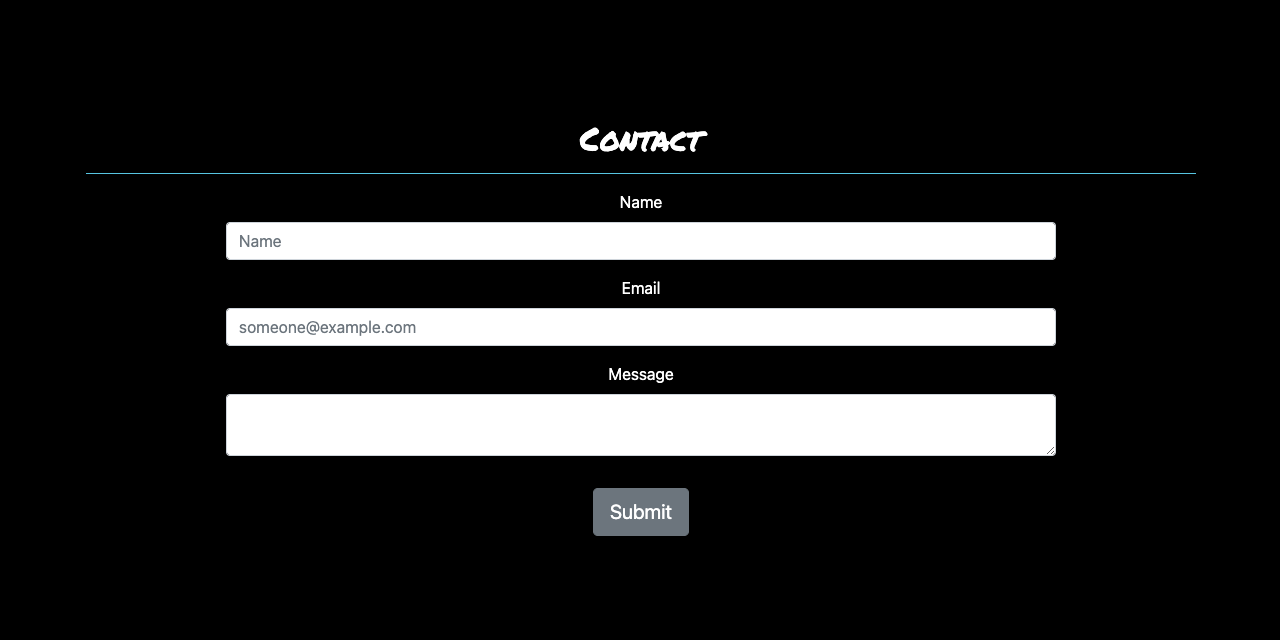
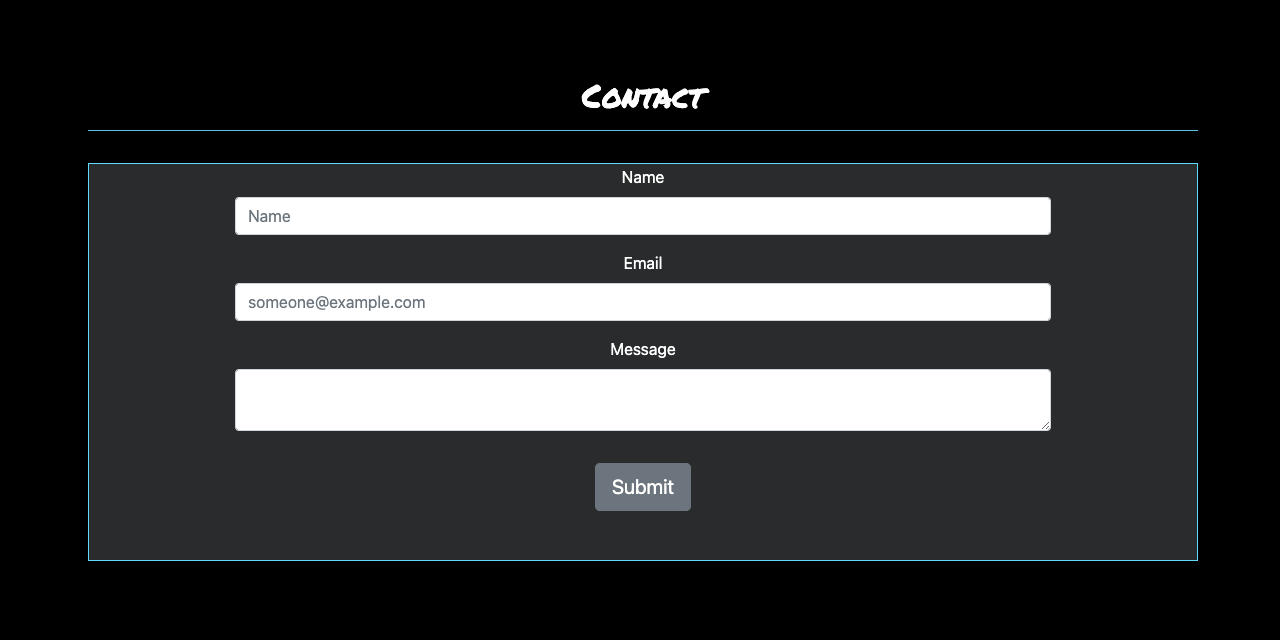
Updates

diff --git a/index.html b/index.html
@@ -1,1 +1,1 @@
-<!doctype html><html lang="en"><head><meta charset="utf-8"/><link rel="icon" href="/react-contact-form/favicon.ico"/><meta name="viewport" content="width=device-width,initial-scale=1"/><meta name="theme-color" content="#000000"/><meta property="og:title" content="React Contact Form"/><meta property="og:description" content="Made with ♥ by Michael Huber"/><meta property="og:image" content="/react-contact-form/form.png"/><meta property="og:url" content="https://mshuber1981.github.io/react-contact-form"/><meta name="twitter:card" content="summary_large_image"/><meta property="og:site_name" content="github.com/mshuber1981"/><link rel="apple-touch-icon" href="/react-contact-form/logo192.png"/><link rel="manifest" href="/react-contact-form/manifest.json"/><title>React Contact Form</title><link href="/react-contact-form/static/css/2.20aa2d7b.chunk.css" rel="stylesheet"><link href="/react-contact-form/static/css/main.547e861b.chunk.css" rel="stylesheet"></head><body><noscript>You need to enable JavaScript to run this app.</noscript><div id="root"></div><script>!function(e){function t(t){for(var n,c,a=t[0],f=t[1],l=t[2],p=0,s=[];p<a.length;p++)c=a[p],Object.prototype.hasOwnProperty.call(o,c)&&o[c]&&s.push(o[c][0]),o[c]=0;for(n in f)Object.prototype.hasOwnProperty.call(f,n)&&(e[n]=f[n]);for(i&&i(t);s.length;)s.shift()();return u.push.apply(u,l||[]),r()}function r(){for(var e,t=0;t<u.length;t++){for(var r=u[t],n=!0,a=1;a<r.length;a++){var f=r[a];0!==o[f]&&(n=!1)}n&&(u.splice(t--,1),e=c(c.s=r[0]))}return e}var n={},o={1:0},u=[];function c(t){if(n[t])return n[t].exports;var r=n[t]={i:t,l:!1,exports:{}};return e[t].call(r.exports,r,r.exports,c),r.l=!0,r.exports}c.m=e,c.c=n,c.d=function(e,t,r){c.o(e,t)||Object.defineProperty(e,t,{enumerable:!0,get:r})},c.r=function(e){"undefined"!=typeof Symbol&&Symbol.toStringTag&&Object.defineProperty(e,Symbol.toStringTag,{value:"Module"}),Object.defineProperty(e,"__esModule",{value:!0})},c.t=function(e,t){if(1&t&&(e=c(e)),8&t)return e;if(4&t&&"object"==typeof e&&e&&e.__esModule)return e;var r=Object.create(null);if(c.r(r),Object.defineProperty(r,"default",{enumerable:!0,value:e}),2&t&&"string"!=typeof e)for(var n in e)c.d(r,n,function(t){return e[t]}.bind(null,n));return r},c.n=function(e){var t=e&&e.__esModule?function(){return e.default}:function(){return e};return c.d(t,"a",t),t},c.o=function(e,t){return Object.prototype.hasOwnProperty.call(e,t)},c.p="/react-contact-form/";var a=this["webpackJsonpreact-contact-form"]=this["webpackJsonpreact-contact-form"]||[],f=a.push.bind(a);a.push=t,a=a.slice();for(var l=0;l<a.length;l++)t(a[l]);var i=f;r()}([])</script><script src="/react-contact-form/static/js/2.9c588dc6.chunk.js"></script><script src="/react-contact-form/static/js/main.a4c6bd37.chunk.js"></script></body></html>
+<!doctype html><html lang="en"><head><meta charset="utf-8"/><link rel="icon" href="/react-contact-form/favicon.ico"/><meta name="viewport" content="width=device-width,initial-scale=1"/><meta name="theme-color" content="#000000"/><meta property="og:title" content="React Contact Form"/><meta property="og:description" content="Made with ♥ by Michael Huber"/><meta property="og:image" content="/react-contact-form/form.png"/><meta property="og:url" content="https://mshuber1981.github.io/react-contact-form"/><meta name="twitter:card" content="summary_large_image"/><meta property="og:site_name" content="github.com/mshuber1981"/><link rel="apple-touch-icon" href="/react-contact-form/logo192.png"/><link rel="manifest" href="/react-contact-form/manifest.json"/><title>React Contact Form</title><link href="/react-contact-form/static/css/2.20aa2d7b.chunk.css" rel="stylesheet"><link href="/react-contact-form/static/css/main.78424440.chunk.css" rel="stylesheet"></head><body><noscript>You need to enable JavaScript to run this app.</noscript><div id="root"></div><script>!function(e){function t(t){for(var n,c,a=t[0],f=t[1],l=t[2],p=0,s=[];p<a.length;p++)c=a[p],Object.prototype.hasOwnProperty.call(o,c)&&o[c]&&s.push(o[c][0]),o[c]=0;for(n in f)Object.prototype.hasOwnProperty.call(f,n)&&(e[n]=f[n]);for(i&&i(t);s.length;)s.shift()();return u.push.apply(u,l||[]),r()}function r(){for(var e,t=0;t<u.length;t++){for(var r=u[t],n=!0,a=1;a<r.length;a++){var f=r[a];0!==o[f]&&(n=!1)}n&&(u.splice(t--,1),e=c(c.s=r[0]))}return e}var n={},o={1:0},u=[];function c(t){if(n[t])return n[t].exports;var r=n[t]={i:t,l:!1,exports:{}};return e[t].call(r.exports,r,r.exports,c),r.l=!0,r.exports}c.m=e,c.c=n,c.d=function(e,t,r){c.o(e,t)||Object.defineProperty(e,t,{enumerable:!0,get:r})},c.r=function(e){"undefined"!=typeof Symbol&&Symbol.toStringTag&&Object.defineProperty(e,Symbol.toStringTag,{value:"Module"}),Object.defineProperty(e,"__esModule",{value:!0})},c.t=function(e,t){if(1&t&&(e=c(e)),8&t)return e;if(4&t&&"object"==typeof e&&e&&e.__esModule)return e;var r=Object.create(null);if(c.r(r),Object.defineProperty(r,"default",{enumerable:!0,value:e}),2&t&&"string"!=typeof e)for(var n in e)c.d(r,n,function(t){return e[t]}.bind(null,n));return r},c.n=function(e){var t=e&&e.__esModule?function(){return e.default}:function(){return e};return c.d(t,"a",t),t},c.o=function(e,t){return Object.prototype.hasOwnProperty.call(e,t)},c.p="/react-contact-form/";var a=this["webpackJsonpreact-contact-form"]=this["webpackJsonpreact-contact-form"]||[],f=a.push.bind(a);a.push=t,a=a.slice();for(var l=0;l<a.length;l++)t(a[l]);var i=f;r()}([])</script><script src="/react-contact-form/static/js/2.9c588dc6.chunk.js"></script><script src="/react-contact-form/static/js/main.a4c6bd37.chunk.js"></script></body></html>

diff --git a/static/css/main.78424440.chunk.css b/static/css/main.78424440.chunk.css
@@ -1,0 +1,2 @@
+@font-face{font-family:"Permanent Marker";src:local("Permanent Marker"),url(/react-contact-form/static/media/PermanentMarker-Regular.109a10dc.ttf)}:root{--react-blue:#61dbfb}#contact,body{background-color:#000;color:#fff}h2{font-family:"Permanent Marker";font-size:4rem}hr{background-color:#61dbfb;background-color:var(--react-blue);margin:2rem auto}form,hr{border:.1rem solid #61dbfb;border:.1rem solid var(--react-blue)}form{margin-top:2rem;padding:0 .5rem;background-color:#292b2c}
+/*# sourceMappingURL=main.78424440.chunk.css.map */
